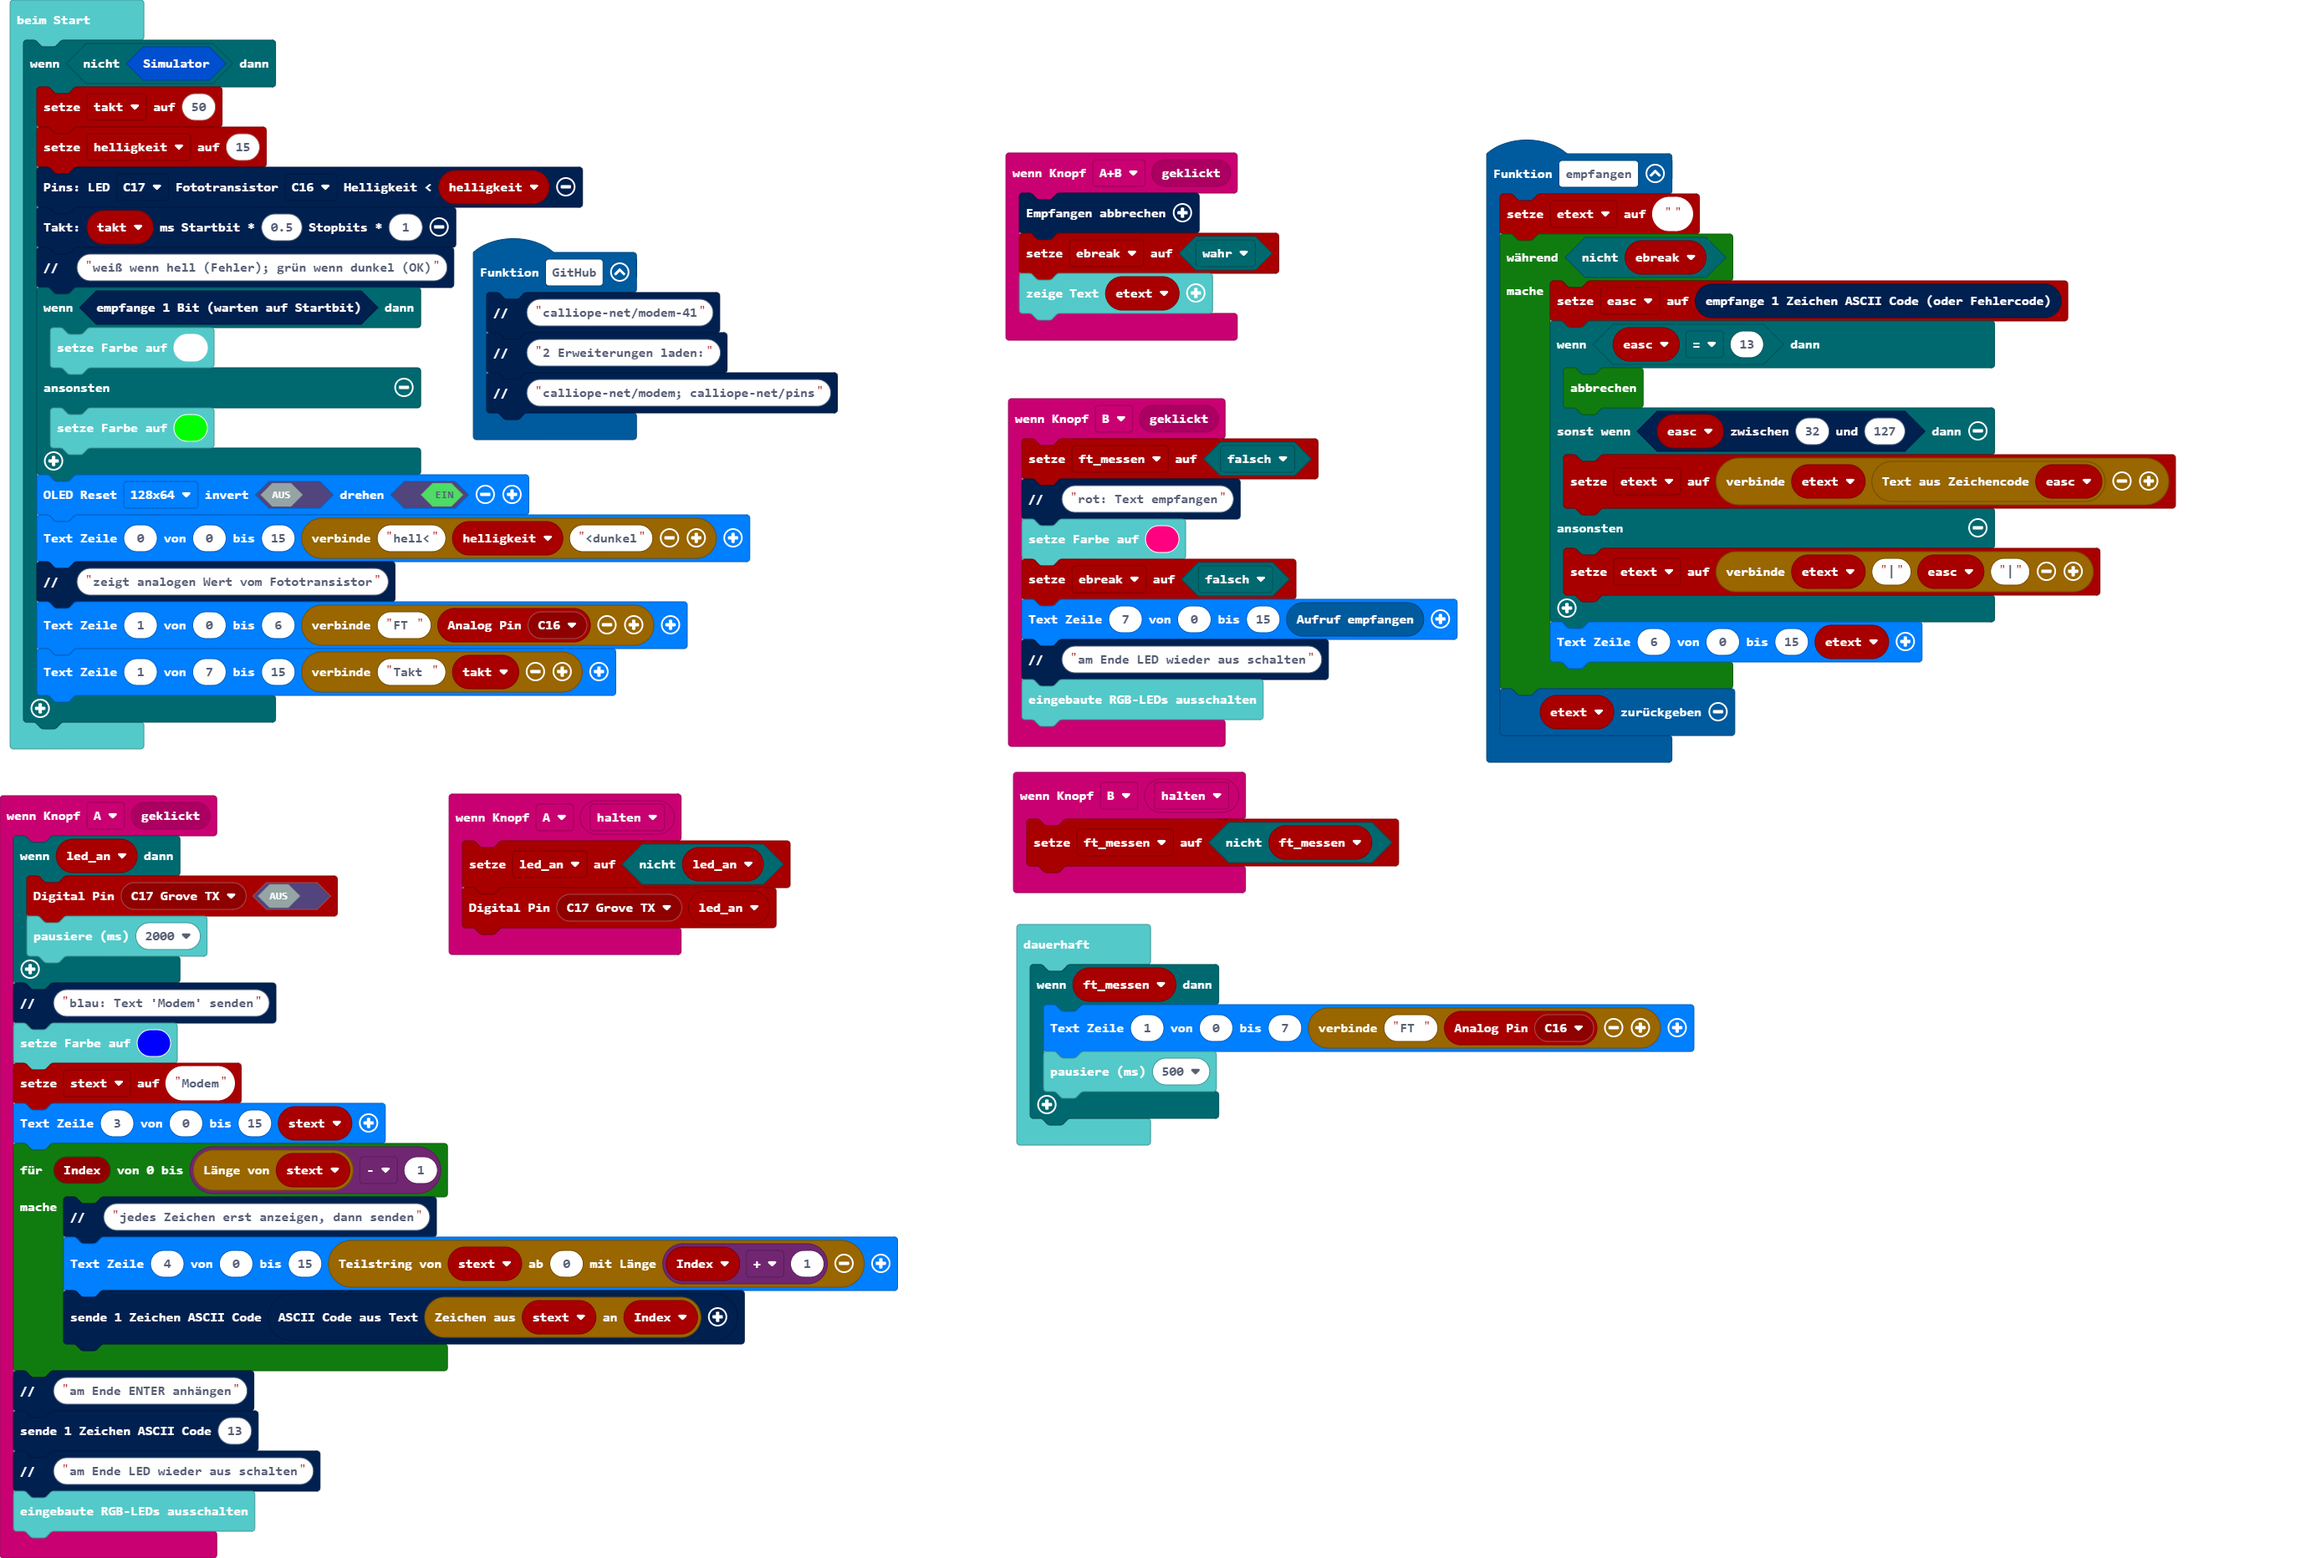
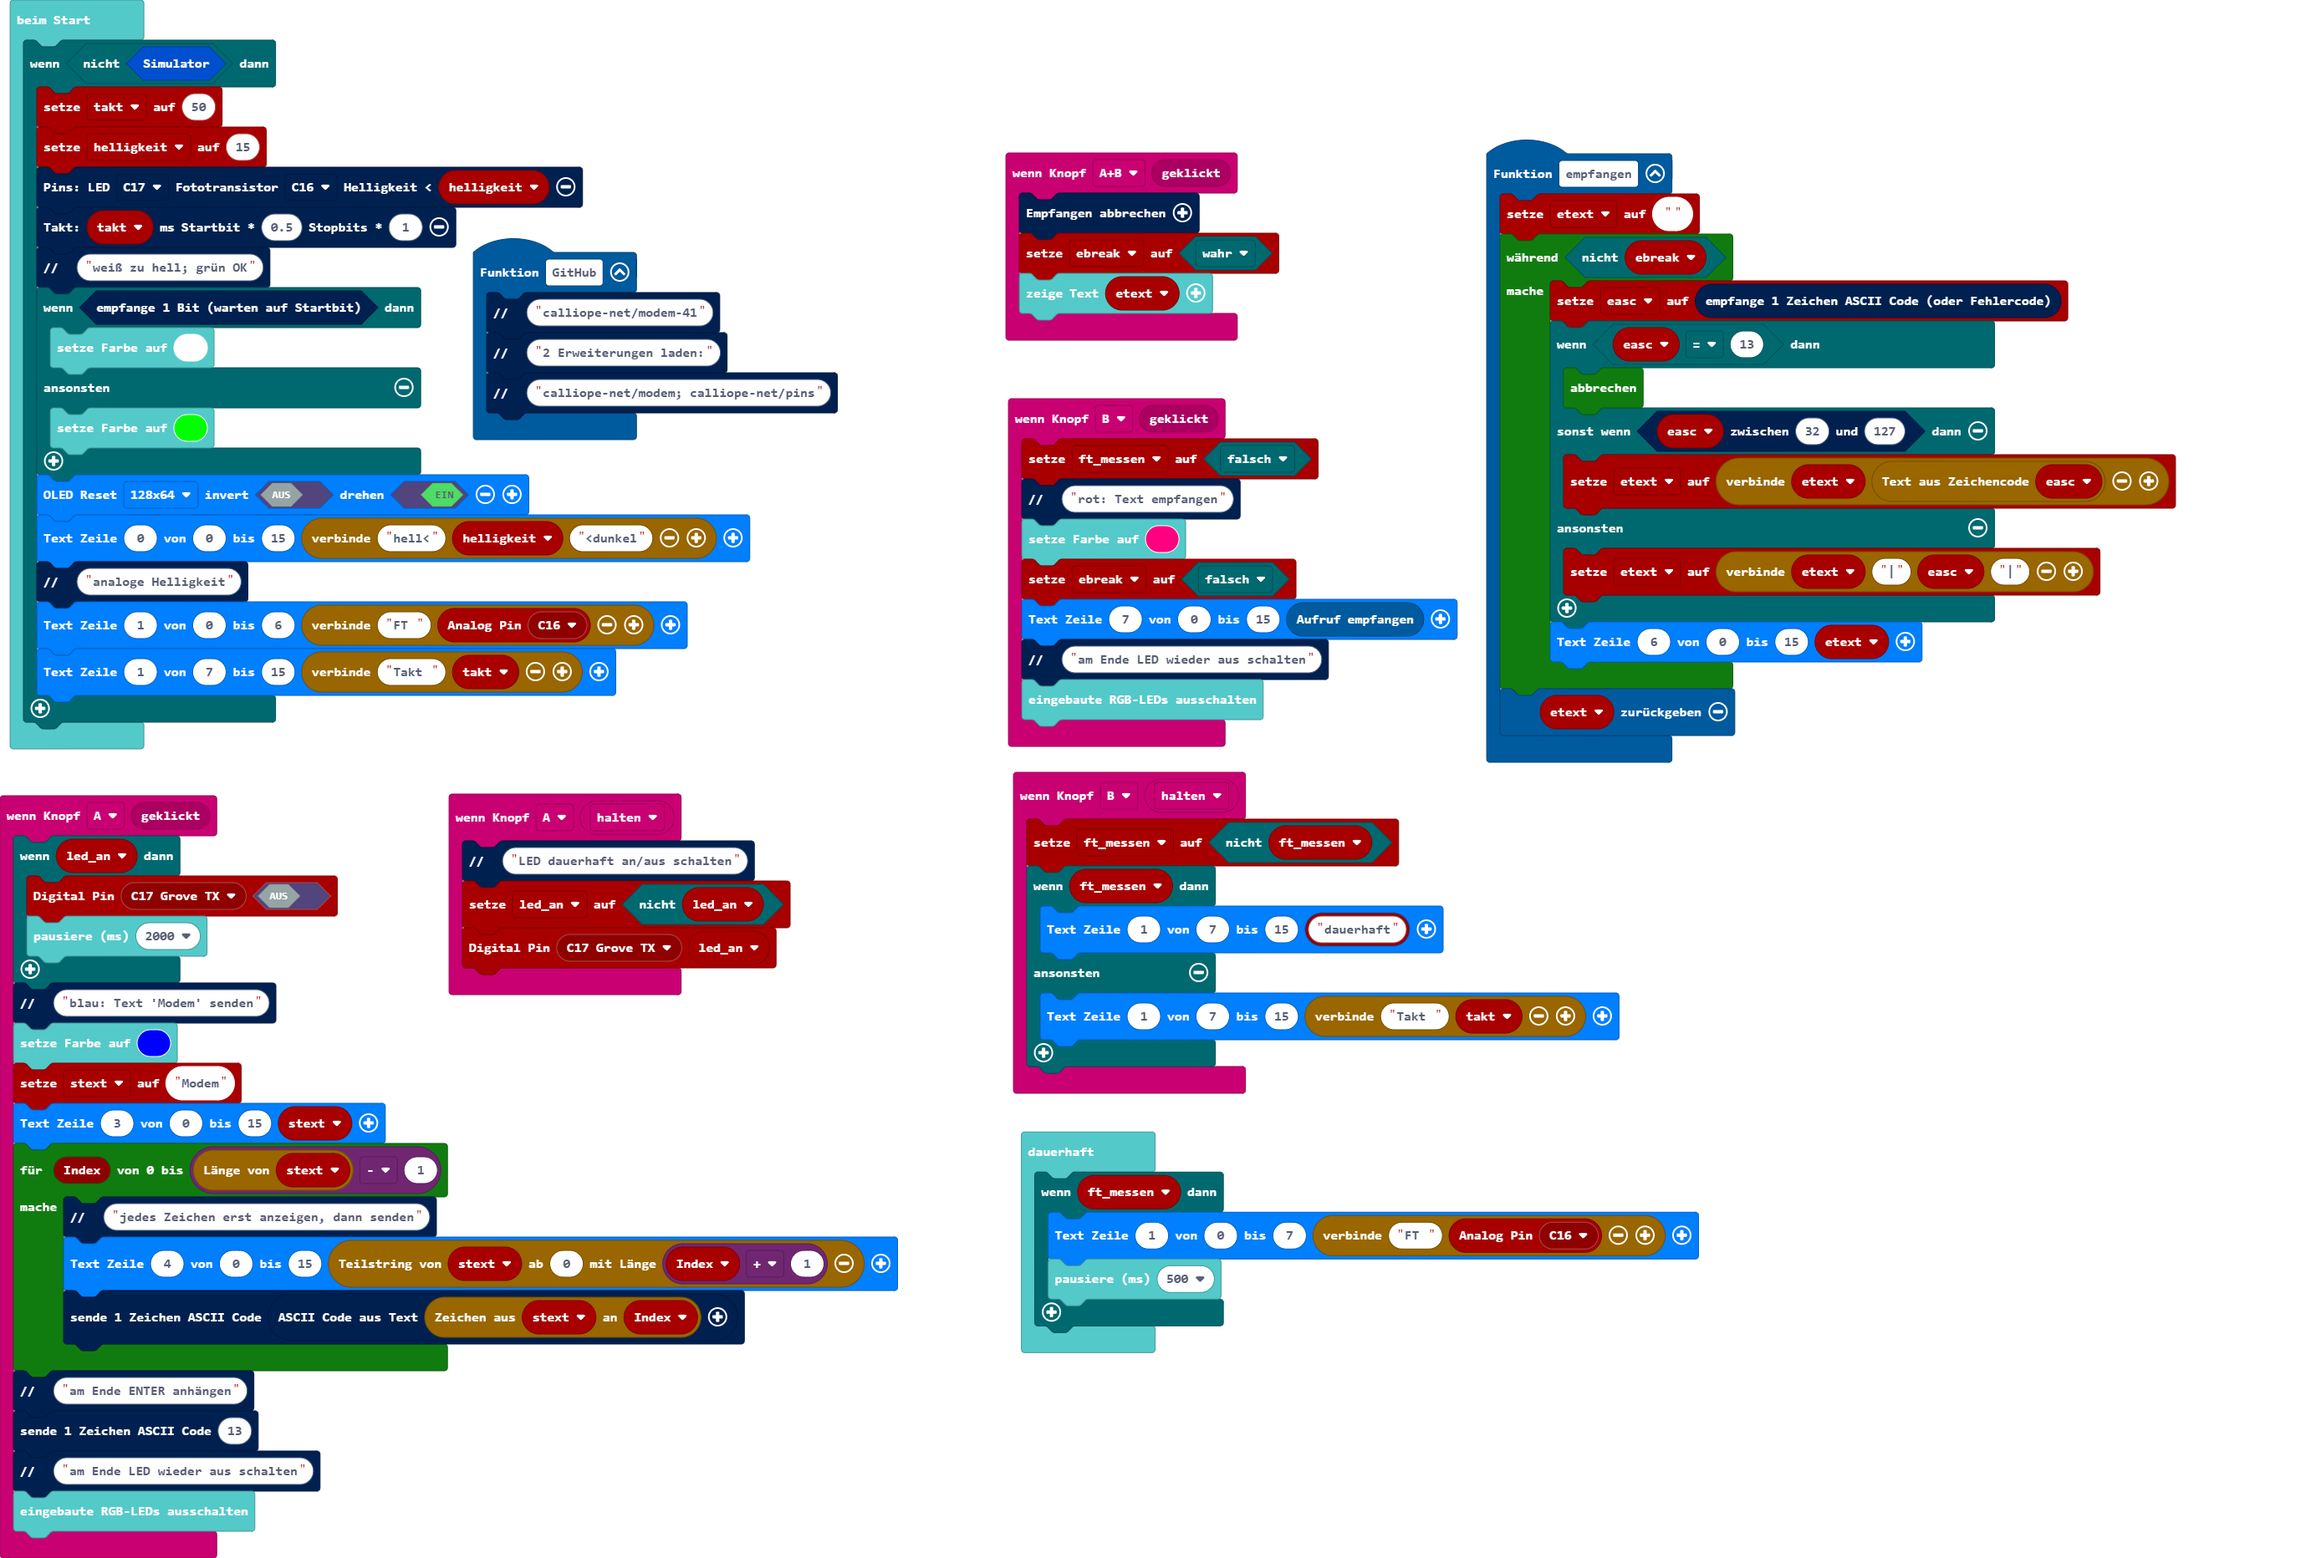
Aktualisiere pxt.json, main.blocks, main.ts

diff --git a/main.ts b/main.ts
@@ -52,11 +52,17 @@ input.onButtonEvent(Button.B, input.buttonEventClick(), function () {
     basic.turnRgbLedOff()
 })
 input.onButtonEvent(Button.A, ButtonEvent.Hold, function () {
+    modem.comment("LED dauerhaft an/aus schalten")
     led_an = !(led_an)
     pins.pinDigitalWrite(pins.pins_eDigitalPins(pins.eDigitalPins.C17), led_an)
 })
 input.onButtonEvent(Button.B, ButtonEvent.Hold, function () {
     ft_messen = !(ft_messen)
+    if (ft_messen) {
+        pins.oled_write_text(1, 7, 15, pins.pins_text("dauerhaft"))
+    } else {
+        pins.oled_write_text(1, 7, 15, "Takt " + takt)
+    }
 })
 let ft_messen = false
 let easc = 0
@@ -71,7 +77,7 @@ if (!(pins.simulator())) {
     helligkeit = 15
     modem.set_pins(DigitalPin.C17, AnalogPin.C16, helligkeit)
     modem.set_takt(takt, 0.5, 1)
-    modem.comment("weiß wenn hell (Fehler); grün wenn dunkel (OK)")
+    modem.comment("weiß zu hell; grün OK")
     if (modem.empfange1bit()) {
         basic.setLedColor(0xffffff)
     } else {
@@ -79,7 +85,7 @@ if (!(pins.simulator())) {
     }
     pins.oled_reset(pins.oled_pages.y64, false, true)
     pins.oled_write_text(0, 0, 15, "hell<" + helligkeit + "<dunkel")
-    modem.comment("zeigt analogen Wert vom Fototransistor")
+    modem.comment("analoge Helligkeit")
     pins.oled_write_text(1, 0, 6, "FT " + pins.pinAnalogRead(pins.pins_AnalogPin(AnalogPin.C16)))
     pins.oled_write_text(1, 7, 15, "Takt " + takt)
 }
